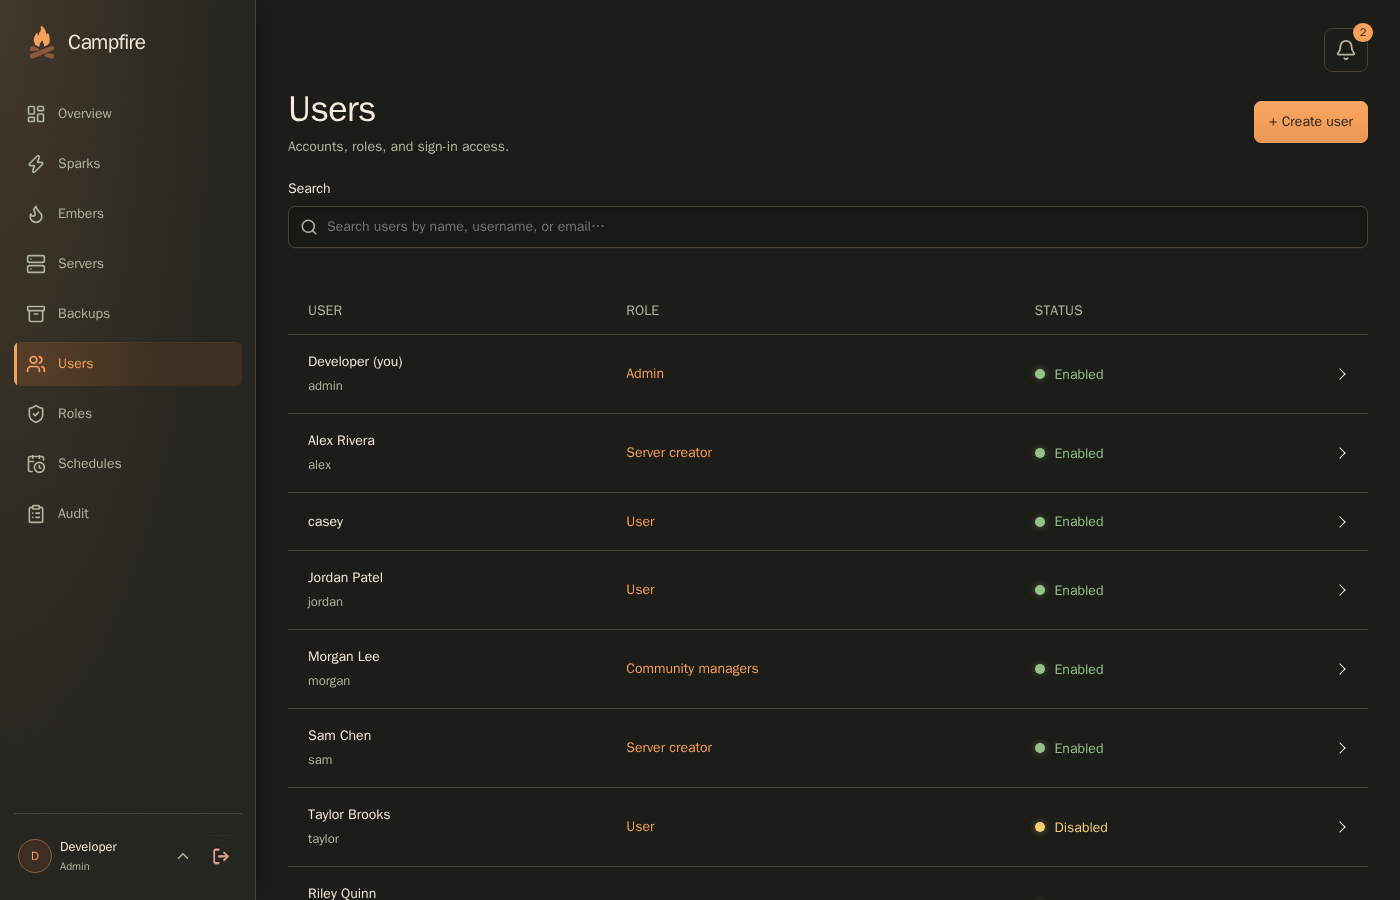
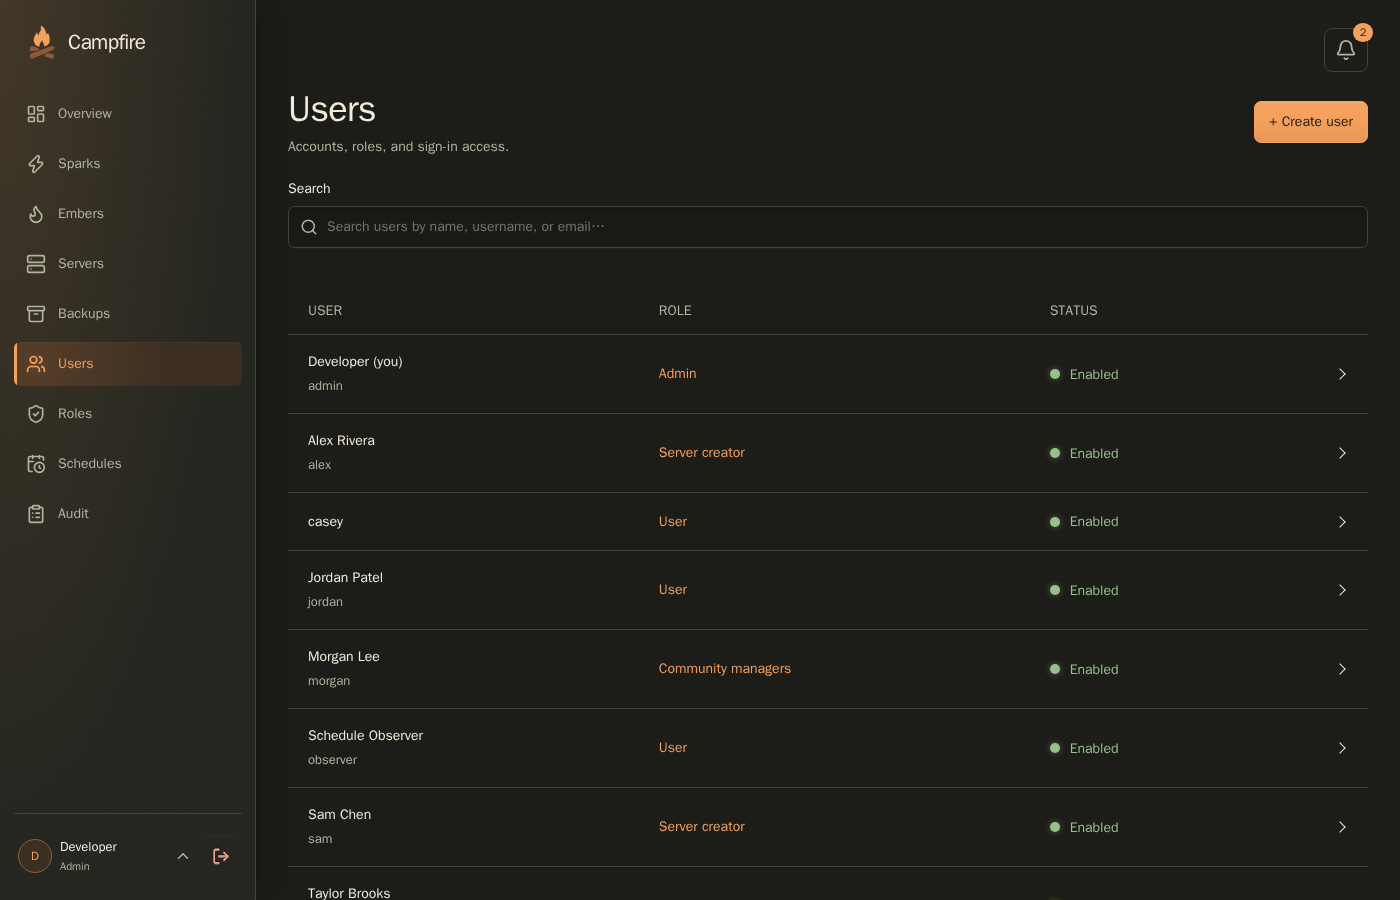
Cover read-only schedule controls with observer fixtures

diff --git a/e2e/schedules.spec.ts b/e2e/schedules.spec.ts
@@ -161,6 +161,12 @@ for (const permissions of [
       ).ok(),
     ).toBeTruthy();
     await page.reload();
+    await expect(
+      page.getByRole("switch", {
+        name: "Enable schedule Nightly restart",
+        exact: true,
+      }),
+    ).toBeDisabled();
     await page
       .getByRole("button", {
         name: "View details for Nightly restart",
@@ -191,6 +197,12 @@ for (const permissions of [
       .last()
       .click();
     await openScreen(page, "schedules", "Schedules");
+    await expect(
+      page.getByRole("switch", {
+        name: "Enable schedule Nightly restart",
+        exact: true,
+      }),
+    ).toBeDisabled();
     await page
       .getByRole("button", {
         name: "View details for Nightly restart",
@@ -226,6 +238,68 @@ test("a schedule without server access cannot be opened through a direct link", 
   await page.goto("/#schedules/nightly-restart");
   await expect(page).toHaveURL(/#schedules$/);
   await expect(page.getByRole("dialog")).toHaveCount(0);
+});
+
+test("the seeded observer can view schedules but cannot toggle them", async ({
+  page,
+}) => {
+  await login(page, "observer");
+  const upcoming = page.getByRole("table", {
+    name: "Upcoming schedules",
+    exact: true,
+  });
+  const row = upcoming.getByRole("row").filter({ hasText: "Nightly restart" });
+  await expect(
+    row.getByRole("switch", {
+      name: "Enable schedule Nightly restart",
+      exact: true,
+    }),
+  ).toBeDisabled();
+  await expect(upcoming).toHaveScreenshot("upcoming-schedules-read-only.png");
+  await row.getByRole("cell").nth(2).click();
+  const overview = page.getByRole("dialog", {
+    name: "Nightly restart",
+    exact: true,
+  });
+  await expect(
+    overview.getByRole("button", { name: "Edit schedule", exact: true }),
+  ).toHaveCount(0);
+  await expect(
+    overview
+      .getByRole("region", { name: "Execution history", exact: true })
+      .getByRole("row"),
+  ).toHaveCount(2);
+  await overview
+    .getByRole("button", { name: "Close", exact: true })
+    .last()
+    .click();
+  await openScreen(page, "schedules", "Schedules");
+  await expect(
+    page.getByRole("switch", {
+      name: "Enable schedule Nightly restart",
+      exact: true,
+    }),
+  ).toBeDisabled();
+  await page
+    .getByRole("button", {
+      name: "View details for Nightly restart",
+      exact: true,
+    })
+    .click();
+  await expect(overview).toBeVisible();
+  await expect(
+    overview.getByRole("button", { name: "Edit schedule", exact: true }),
+  ).toHaveCount(0);
+  const session = await page.request.get("/api/v1/auth/session");
+  const { csrf_token } = (await session.json()) as { csrf_token: string };
+  expect(
+    (
+      await page.request.patch("/api/v1/schedules/nightly-restart", {
+        headers: { "X-CSRF-Token": csrf_token },
+        data: { enabled: false },
+      })
+    ).status(),
+  ).toBe(403);
 });
 
 test("schedule history loads older attempts without including other schedules", async ({

diff --git a/backend/internal/campfire/devmock/observer_test.go b/backend/internal/campfire/devmock/observer_test.go
@@ -1,0 +1,97 @@
+//go:build !production
+
+package devmock
+
+import (
+	"slices"
+	"testing"
+
+	"campfire/internal/campfire/database"
+	"campfire/internal/campfire/database/repository"
+	"campfire/internal/campfire/service"
+)
+
+func checkObserverAccess(t *testing.T, db *database.Database, auth *service.AuthService) {
+	t.Helper()
+
+	session, _, err := auth.Login(t.Context(), "observer", Password, "")
+	if err != nil {
+		t.Fatal("observer cannot sign in", err)
+	}
+
+	principal := service.PrincipalFromSession(session)
+	if principal.Admin || len(principal.Permissions) != 0 {
+		t.Fatal("observer has platform management access", principal)
+	}
+
+	for _, id := range []string{"survival", "creative"} {
+		permissions, err := auth.Access().ServerPermissions(t.Context(), principal, id)
+		if err != nil || id == "survival" && !slices.Equal(permissions, []string{"server.view"}) || id == "creative" && len(permissions) != 0 {
+			t.Fatal("unexpected observer access", id, permissions, err)
+		}
+	}
+
+	schedules, err := repository.NewActivityRepository(db.ORM()).Schedules(t.Context(), principal.UserID, principal.Admin, "")
+	if err != nil || len(schedules) != 1 || schedules[0].ID != "nightly-restart" {
+		t.Fatal("observer cannot see the seeded schedule", schedules, err)
+	}
+
+	session, _, err = auth.Login(t.Context(), "viewer", Password, "")
+	if err != nil {
+		t.Fatal(err)
+	}
+
+	permissions, err := auth.Access().ServerPermissions(t.Context(), service.PrincipalFromSession(session), "survival")
+	if err != nil || len(permissions) != 0 {
+		t.Fatal("unassigned viewer gained server access", permissions, err)
+	}
+}
+
+func TestObserverFixtureHasOnlyReadAccess(t *testing.T) {
+	_, db, auth, _ := fixture(t)
+	checkObserverAccess(t, db, auth)
+}
+
+func TestExistingMockDatabaseAddsObserverWithoutResettingData(t *testing.T) {
+	_, db, auth, _ := fixture(t)
+	if err := db.ORM().Unscoped().Where("username = ?", "observer").Delete(&database.User{}).Error; err != nil {
+		t.Fatal(err)
+	}
+
+	if err := db.ORM().Delete(&seedMarker{ID: observerSeedMarkerID}).Error; err != nil {
+		t.Fatal(err)
+	}
+
+	if err := db.ORM().Model(&database.Schedule{}).Where("id = ?", "nightly-restart").Update("name", "Saved schedule changes").Error; err != nil {
+		t.Fatal(err)
+	}
+
+	if _, err := New(t.Context(), db.ORM(), auth); err != nil {
+		t.Fatal(err)
+	}
+
+	checkObserverAccess(t, db, auth)
+
+	if err := db.ORM().Model(&database.User{}).Where("username = ?", "observer").Update("name", "Saved observer changes").Error; err != nil {
+		t.Fatal(err)
+	}
+
+	if _, err := New(t.Context(), db.ORM(), auth); err != nil {
+		t.Fatal(err)
+	}
+
+	var user database.User
+	if err := db.ORM().Where("username = ?", "observer").Take(&user).Error; err != nil || user.Name != "Saved observer changes" {
+		t.Fatal("mock restart reset the observer", user, err)
+	}
+
+	var schedule database.Schedule
+	if err := db.ORM().Take(&schedule, "id = ?", "nightly-restart").Error; err != nil || schedule.Name != "Saved schedule changes" {
+		t.Fatal("adding the observer reset schedule data", schedule, err)
+	}
+
+	var users int64
+	if err := db.ORM().Model(&database.User{}).Where("username = ?", "observer").Count(&users).Error; err != nil || users != 1 {
+		t.Fatal("mock restart duplicated the observer", users, err)
+	}
+}

diff --git a/backend/internal/campfire/devfixture/observer.go b/backend/internal/campfire/devfixture/observer.go
@@ -1,0 +1,43 @@
+//go:build !production
+
+package devfixture
+
+import (
+	"context"
+	"time"
+
+	"campfire/internal/campfire/database"
+
+	"gorm.io/gorm"
+)
+
+// SeedObserver adds a read-only account without changing an existing account.
+func SeedObserver(ctx context.Context, db *gorm.DB, now time.Time) error {
+	tx := db.WithContext(ctx)
+
+	var count int64
+	if err := tx.Unscoped().Model(&database.User{}).Where("lower(username) = ?", "observer").Count(&count).Error; err != nil || count > 0 {
+		return err
+	}
+
+	var admin database.User
+	if err := tx.Take(&admin, 1).Error; err != nil {
+		return err
+	}
+
+	role := database.Role{Name: "Observers", Scope: "server", Permissions: []database.RolePermission{{Permission: "server.view"}}}
+	if err := tx.Where("lower(name) = ? AND scope = ?", "observers", "server").FirstOrCreate(&role).Error; err != nil {
+		return err
+	}
+
+	user := database.User{Username: "observer", Name: "Schedule Observer", Email: "observer@example.test", RoleID: database.UserRole, PasswordHash: admin.PasswordHash, CredentialVersion: 1, CreatedAt: now.Unix()}
+	if err := tx.Omit("Role").Create(&user).Error; err != nil {
+		return err
+	}
+
+	if err := tx.Model(&database.Server{}).Where("id = ?", "survival").Count(&count).Error; err != nil || count == 0 {
+		return err
+	}
+
+	return tx.Omit("Server", "User", "Role", "AccessRole").Create(&database.ServerAccessGrant{ServerID: "survival", UserID: &user.ID, AccessRoleID: role.ID}).Error
+}

diff --git a/backend/internal/campfire/devmock/seed.go b/backend/internal/campfire/devmock/seed.go
@@ -26,6 +26,8 @@ type seedMarker struct {
 	ID int `gorm:"primaryKey;autoIncrement:false"`
 }
 
+const observerSeedMarkerID = 6
+
 // New seeds a fresh mock database once, then restores its saved simulated state.
 func New(ctx context.Context, db *gorm.DB, auth *service.AuthService) (*Runtime, error) {
 	// Populate legacy rows before AutoMigrate can rebuild the SQLite table.
@@ -56,15 +58,29 @@ func New(ctx context.Context, db *gorm.DB, auth *service.AuthService) (*Runtime,
 
 	err = database.Transaction(db.WithContext(ctx), func(tx *gorm.DB) error {
 		var count int64
-		if err := tx.Model(&seedMarker{}).Count(&count).Error; err != nil || count > 0 {
+		if err := tx.Model(&seedMarker{}).Count(&count).Error; err != nil {
 			return err
 		}
 
-		if err := seed(ctx, tx); err != nil {
+		if count == 0 {
+			if err := seed(ctx, tx); err != nil {
+				return err
+			}
+
+			if err := tx.Create(&seedMarker{ID: 1}).Error; err != nil {
+				return err
+			}
+		}
+
+		if err := tx.Model(&seedMarker{}).Where("id = ?", observerSeedMarkerID).Count(&count).Error; err != nil || count > 0 {
 			return err
 		}
 
-		return tx.Create(&seedMarker{ID: 1}).Error
+		if err := devfixture.SeedObserver(ctx, tx, time.Now().UTC()); err != nil {
+			return err
+		}
+
+		return tx.Create(&seedMarker{ID: observerSeedMarkerID}).Error
 	})
 	if err != nil {
 		return nil, err

diff --git a/backend/internal/campfire/devmock/runtime_test.go b/backend/internal/campfire/devmock/runtime_test.go
@@ -122,7 +122,7 @@ func TestSeedAuthenticationAndPersistence(t *testing.T) {
 		model any
 		count int64
 	}{
-		{&database.User{}, 8}, {&database.Server{}, 5}, {&database.Spark{}, 3},
+		{&database.User{}, 9}, {&database.Server{}, 5}, {&database.Spark{}, 3},
 		{&database.Ember{}, 2}, {&database.Schedule{}, 1}, {&database.Notification{}, 3},
 	} {
 		var count int64

diff --git a/backend/internal/campfire/devfixture/seed.go b/backend/internal/campfire/devfixture/seed.go
@@ -169,6 +169,10 @@ func Seed(ctx context.Context, tx *gorm.DB, now time.Time) ([]Server, error) {
 		}
 	}
 
+	if err := SeedObserver(ctx, tx, now); err != nil {
+		return nil, err
+	}
+
 	return servers, nil
 }
 

diff --git a/docs/development.md b/docs/development.md
@@ -11,6 +11,12 @@ make dev-mock
 
 Open `http://127.0.0.1:8081` and sign in with `admin` / `campfire-dev-password`. Mock mode runs the real authentication, API, database, and services against simulated Sparks. It includes sample servers, roles, notifications, files, console output, and backups without needing Docker or production credentials. Each new `make dev-mock` session resets its isolated data; backend rebuilds within that session preserve it.
 
+Sign in as `observer` with the same initial password to try read-only access to
+Survival and its schedule. The enable switches are disabled, while schedule
+details and execution history remain accessible. The `viewer` account remains
+unassigned for access-denial testing. Existing mock databases receive the observer
+fixture on the next backend restart without resetting their saved data.
+
 ```sh
 make dev                 # API and Vite with real Spark connections
 make test                # Go race tests, type checks, and frontend behavior tests
